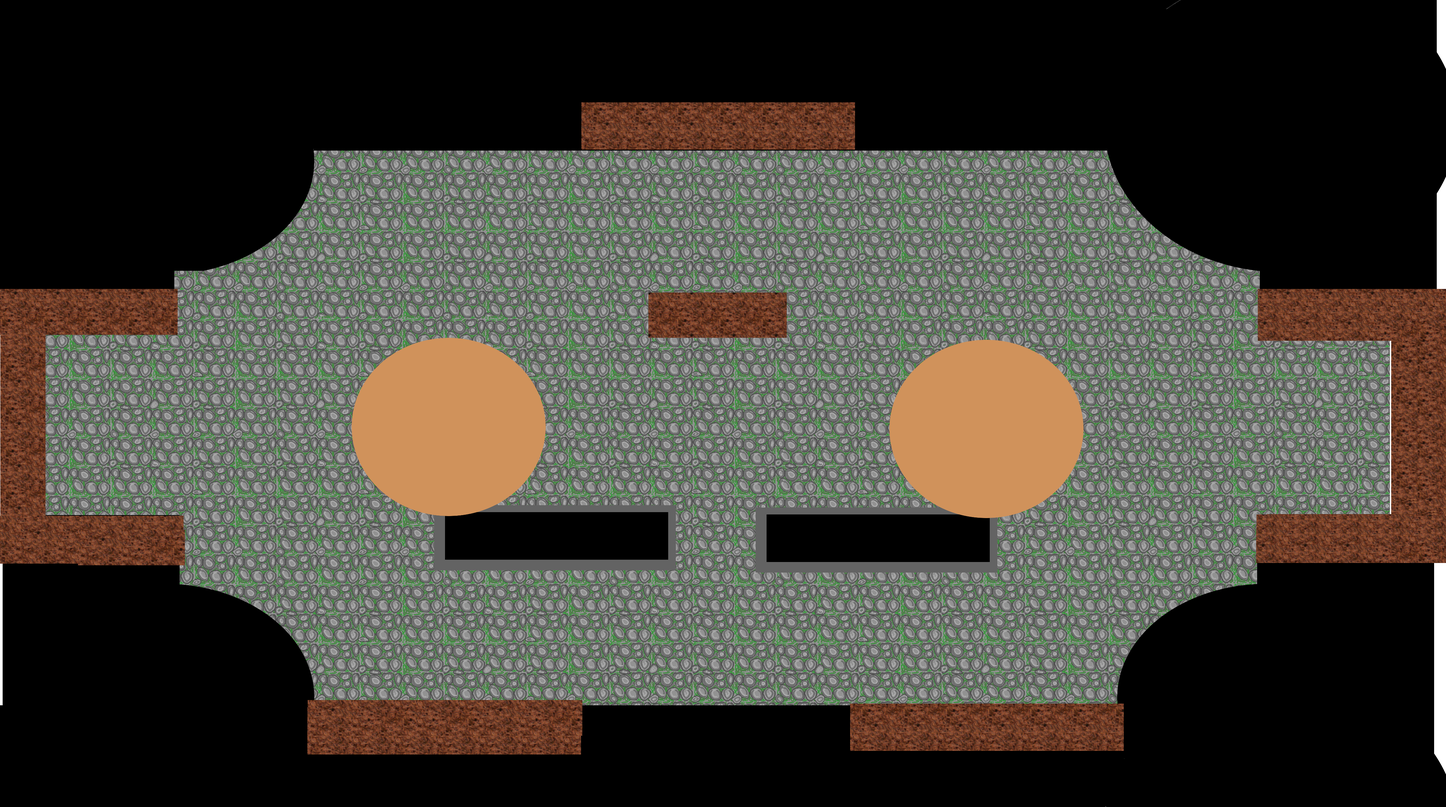
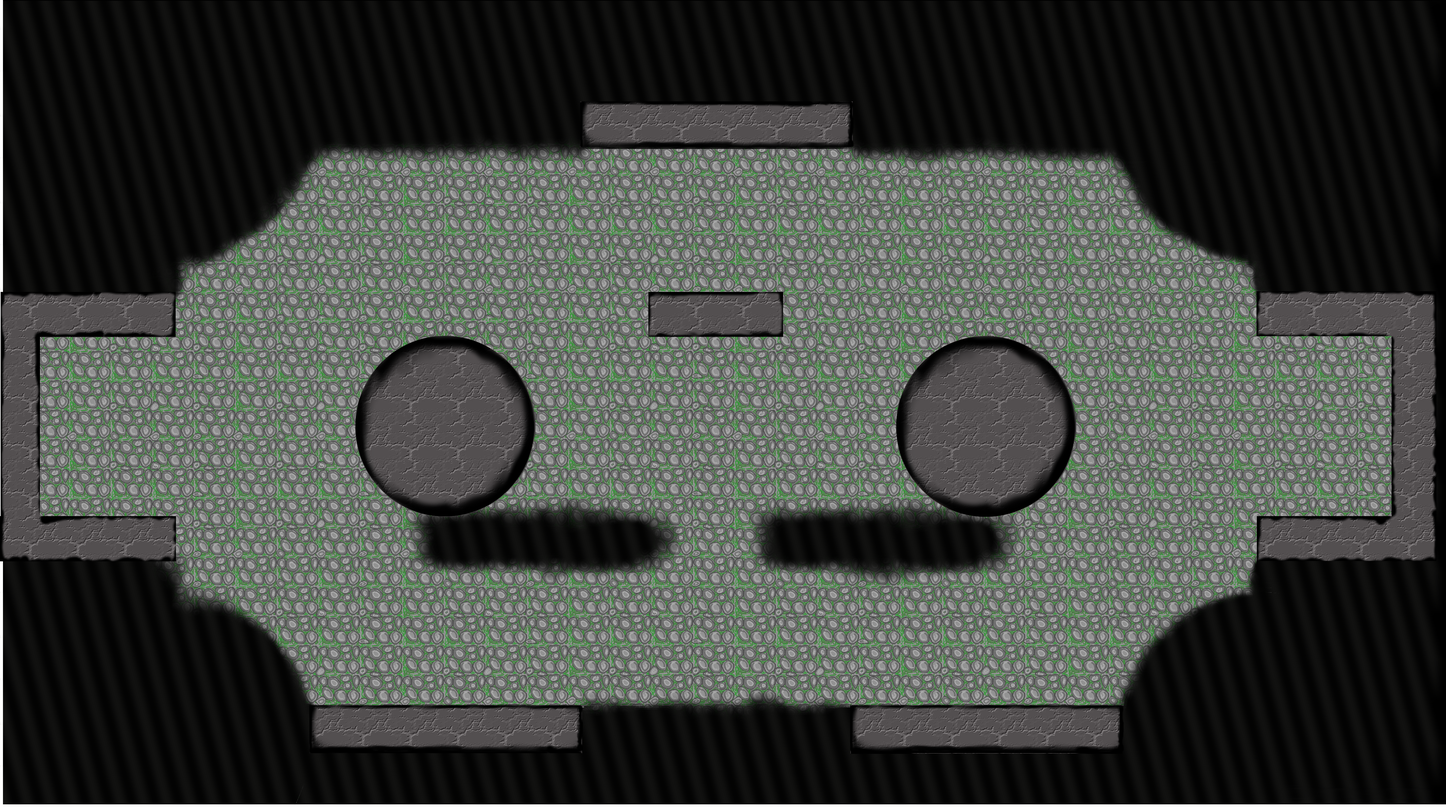
updated map

diff --git a/src/main/java/game/GameUtils.java b/src/main/java/game/GameUtils.java
@@ -391,7 +391,7 @@ public class GameUtils {
     private static int createLargeBackgroundScale(WorldContainer wc, float scale) {
         int bg = wc.createEntity("map");
         wc.addComponent(bg, new PositionComp(scale*18, scale*-55, -0.5f));
-        wc.addComponent(bg, new TexturedMeshComp(TexturedMeshUtils.createRectangle("largeMapSol3.png", scale*LARGE_MAP_WIDTH, scale*LARGE_MAP_HEIGHT)));
+        wc.addComponent(bg, new TexturedMeshComp(TexturedMeshUtils.createRectangle("largeMap.png", scale*LARGE_MAP_WIDTH, scale*LARGE_MAP_HEIGHT)));
 
         return bg;
     }
